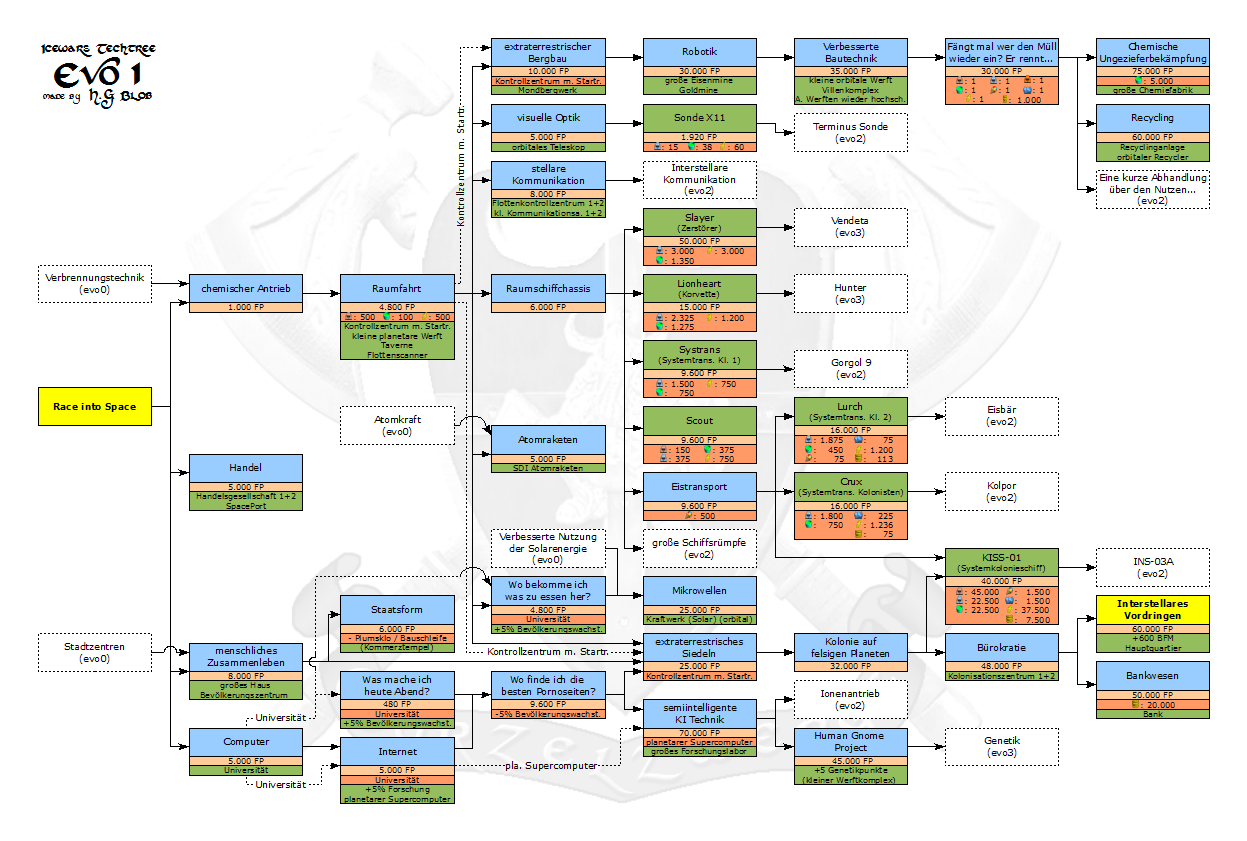
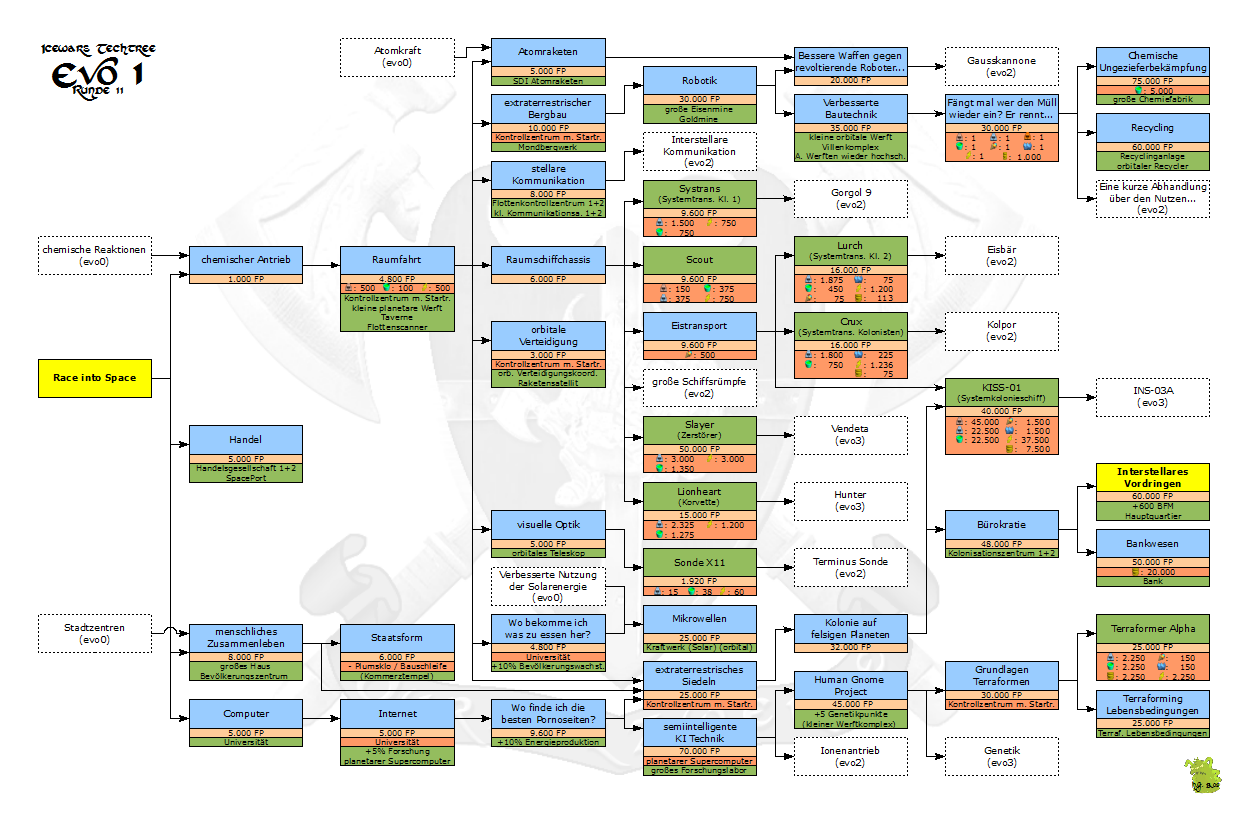
changes on modul techtree, exchange pictures techtree

diff --git a/modules/m_techtree.php b/modules/m_techtree.php
@@ -26,41 +26,41 @@
 
 /*****************************************************************************/
 /* Dieses Modul dient als Vorlage zum Erstellen von eigenen Zusatzmodulen    */
-/* f�r die Iw DB: Icewars geoscan and sitter database  
+/* für die Iw DB: Icewars geoscan and sitter database  
  /*---------------------------------------------------------------------------*/
-/* Diese Erweiterung der urspr�nglichen DB ist ein Gemeinschaftsprojekt von  
+/* Diese Erweiterung der ursprünglichen DB ist ein Gemeinschaftsprojekt von  
  /* IW-Spielern.                                                              */
-/* Bei Problemen kannst du dich an das eigens daf�r eingerichtete  
+/* Bei Problemen kannst du dich an das eigens dafuer eingerichtete  
  /* Entwicklerforum wenden:                                                   */
 /*                                                                           */
 /*                   http://www.iw-smf.pericolini.de                         */
 /*                                                                           */
 /*****************************************************************************/
 
-// -> Abfrage ob dieses Modul �ber die index.php aufgerufen wurde.
+// -> Abfrage ob dieses Modul über die index.php aufgerufen wurde.
 //    Kann unberechtigte Systemzugriffe verhindern.
 if (!defined('IRA'))
 die('Hacking attempt...');
 
 //****************************************************************************
 //
-// -> Name des Moduls, ist notwendig f�r die Benennung der zugeh�rigen
+// -> Name des Moduls, ist notwendig für die Benennung der zugehörigen
 //    Config.cfg.php
-// -> Das m_ als Beginn des Datreinamens des Moduls ist Bedingung f�r
-//    eine Installation �ber das Men�
+// -> Das m_ als Beginn des Datreinamens des Moduls ist Bedingung für
+//    eine Installation über das Menü
 //
 $modulname  = "m_techtree";
 
 //****************************************************************************
 //
-// -> Men�titel des Moduls der in der Navigation dargestellt werden soll.
+// -> Menütitel des Moduls der in der Navigation dargestellt werden soll.
 //
 $modultitle = "graph. Techtree";
 
 //****************************************************************************
 //
-// -> Status des Moduls, bestimmt wer dieses Modul �ber die Navigation
-//    ausf�hren darf. M�gliche Werte:
+// -> Status des Moduls, bestimmt wer dieses Modul über die Navigation
+//    ausführen darf. Mögliche Werte:
 //    - ""      <- nix = jeder,
 //    - "admin" <- na wer wohl
 //
@@ -68,10 +68,10 @@ $modulstatus = "";
 
 //****************************************************************************
 //
-// -> Beschreibung des Moduls, wie es in der Menue-Uebersicht angezeigt wird.
+// -> Beschreibung des Moduls, wie es in der Menue-Übersicht angezeigt wird.
 //
 $moduldesc =
-  "Ein graphsicher Technoligiebaum, der jede Evolutionsstufe als �bersicht mit Forschungsverkn�pfungen und Informationen anzeigt. Besonders Wert gelegt wurde auf die optische Integration in die AlliDB und schnelle Ladezeiten.";
+  "Ein graphsicher Technoligiebaum, der jede Evolutionsstufe als Übersicht mit Forschungsverknüpfungen und Informationen anzeigt. Besonders Wert gelegt wurde auf die optische Integration in die AlliDB und schnelle Ladezeiten.";
 
 //****************************************************************************
 //
@@ -102,7 +102,7 @@ function workInstallMenu() {
 	$actionparamters = "";
 	insertMenuItem( $_POST['menu'], $_POST['submenu'], $modultitle, $modulstatus, $actionparameters );
 	//
-	// Weitere Wiederholungen f�r weitere Men�-Eintr�ge, z.B.
+	// Weitere Wiederholungen für weitere Menü-Einträge, z.B.
 	//
 	// 	insertMenuItem( $_POST['menu'], ($_POST['submenu']+1), "Titel2", "hc", "&weissichnichtwas=1" );
 	//
@@ -138,12 +138,12 @@ function workUninstallDatabase() {
 //
 // Installationsroutine
 //
-// Dieser Abschnitt wird nur ausgef�hrt wenn das Modul mit dem Parameter
+// Dieser Abschnitt wird nur ausgeführt wenn das Modul mit dem Parameter
 // "install" aufgerufen wurde. Beispiel des Aufrufs:
 //
 //      http://Mein.server/iwdb/index.php?action=default&was=install
 //
-// Anstatt "Mein.Server" nat�rlich deinen Server angeben und default
+// Anstatt "Mein.Server" natürlich deinen Server angeben und default
 // durch den Dateinamen des Moduls ersetzen.
 //
 if( !empty($_REQUEST['was'])) {
@@ -157,7 +157,7 @@ if( !empty($_REQUEST['was'])) {
 	die( "Cannot load menu functions" );
 
 	// Wenn ein Modul administriert wird, soll der Rest nicht mehr
-	// ausgef�hrt werden.
+	// ausgeführt werden.
 	return;
 }
 
@@ -169,22 +169,22 @@ if (!@include("./config/".$modulname.".cfg.php")) {
 //
 // -> Und hier beginnt das eigentliche Modul
 
-$lastevo="evo1neu.png"; // -> F�r EVO1
+$lastevo="blobtree-evo0.png"; // -> Für EVO1
 
 // -> Nachsehen ob der dynamische Techtree installiert ist.
 if(file_exists("./config/m_research.cfg.php")){
 
-	// -> Schl�sselforschungen zum Erreichen einer neuen Evostufe, kann sein das es im Laufe der Runde angepasst werden mu�.
+	// -> Schlüsselforschungen zum Erreichen einer neuen Evostufe, kann sein das es im Laufe der Runde angepasst werden mu�.
 	$evo =array("blobtree-evo1.png"=>"Race into Space",
-              "evo2neu.png"=>"Interstellares Vordringen",
+              "blobtree-evo2.png"=>"Interstellares Vordringen",
               "blobtree-evo3.png"=>"Aufnahme in die zivilisierten Welten",
-              "evo4beta.png"=>"Imperiale Gedanken",
-              "evo5beta.png"=>"Die Macht des Seins",
+              "blobtree-evo4.png"=>"Imperiale Gedanken",
+              "blobtree-evo5.png"=>"Die Macht des Seins",
               "evo6neu.png"=>"Verstehen der Zusammenh�nge",
-              "evo7neu.png"=>"Verstehen der Zusammenh�nge");
+              "blobtree-evo7.png"=>"Verstehen der Zusammenh�nge");
 
 	for($x=0;$x<sizeof($evo);$x++) {
-		// -> Nach der ID f�r die Schl�sselforschungen suchen.
+		// -> Nach der ID für die Schlüsselforschungen suchen.
 		$sql = "SELECT ID FROM " . $db_tb_research . " WHERE name='" . current($evo) . "'";
 		$result = $db->db_query($sql)
 		or error(GENERAL_ERROR,
@@ -264,7 +264,7 @@ echo "&nbsp;&nbsp;&nbsp;&nbsp;&nbsp;&nbsp;&nbsp; TreeEvo7";
 echo "</select>";
 echo "<input type=\"button\" value=\"ansehen\" onClick=\"imgchange()\">";
 echo "<br>";
-echo "wir danken H.G. Blob f&uuml;r die Grafiken der EVO 0, 1, 3, 4 und 5";
+//echo "wir danken H.G. Blob f&uuml;r die Grafiken der EVO 0, 1, 3, 4 und 5";
 echo "<br><br>";
 echo "<IMG SRC=\"bilder/techtree/".$lastevo."\"  NAME=\"img\">";
 echo "</form>";

diff --git a/config/m_building.cfg.php b/config/m_building.cfg.php
@@ -1,0 +1,29 @@
+<?PHP
+/*****************************************************************************/
+/* Iw DB: Icewars geoscan and sitter database                                */
+/* Open-Source Project started by Robert Riess (robert@riess.net)            */
+/* Software Version: Iw DB 1.00                                              */
+/* ========================================================================= */
+/* Software Distributed by:    http://lauscher.riess.net/iwdb/               */
+/* Support, News, Updates at:  http://lauscher.riess.net/iwdb/               */
+/* ========================================================================= */
+/* Copyright (c) 2004 Robert Riess - All Rights Reserved                     */
+/*****************************************************************************/
+/* This program is free software; you can redistribute it and/or modify it   */
+/* under the terms of the GNU General Public License as published by the     */
+/* Free Software Foundation; either version 2 of the License, or (at your    */
+/* option) any later version.                                                */
+/*                                                                           */
+/* This program is distributed in the hope that it will be useful, but       */
+/* WITHOUT ANY WARRANTY; without even the implied warranty of                */
+/* MERCHANTABILITY or FITNESS FOR A PARTICULAR PURPOSE.  See the GNU General */
+/* Public License for more details.                                          */
+/*                                                                           */
+/* The GNU GPL can be found in LICENSE in this directory                     */
+/*****************************************************************************/
+/* This file was automatically generated by an installation routine.         */
+/*****************************************************************************/
+
+$desc_m_building="Erm&ouml;glicht das Anzeigen der Geb&auml;ude. <br> Dieses Modul braucht eine Installation des dynamischen Techtrees!";
+
+?>

diff --git a/modules/m_ress.php b/modules/m_ress.php
@@ -270,7 +270,7 @@ if (empty($switch) || $switch == 24) {
 	$switch = 24;
 	doc_title("Tagesproduktion/-Verbrauch");
 } else doc_title("Verbrauch in ".$switch." Stunde(n)");
-doc_title("sowie Bev�lkerungsdaten");
+doc_title("sowie Bev&ouml;lkerungsdaten");
 
 echo "<br>";
 
